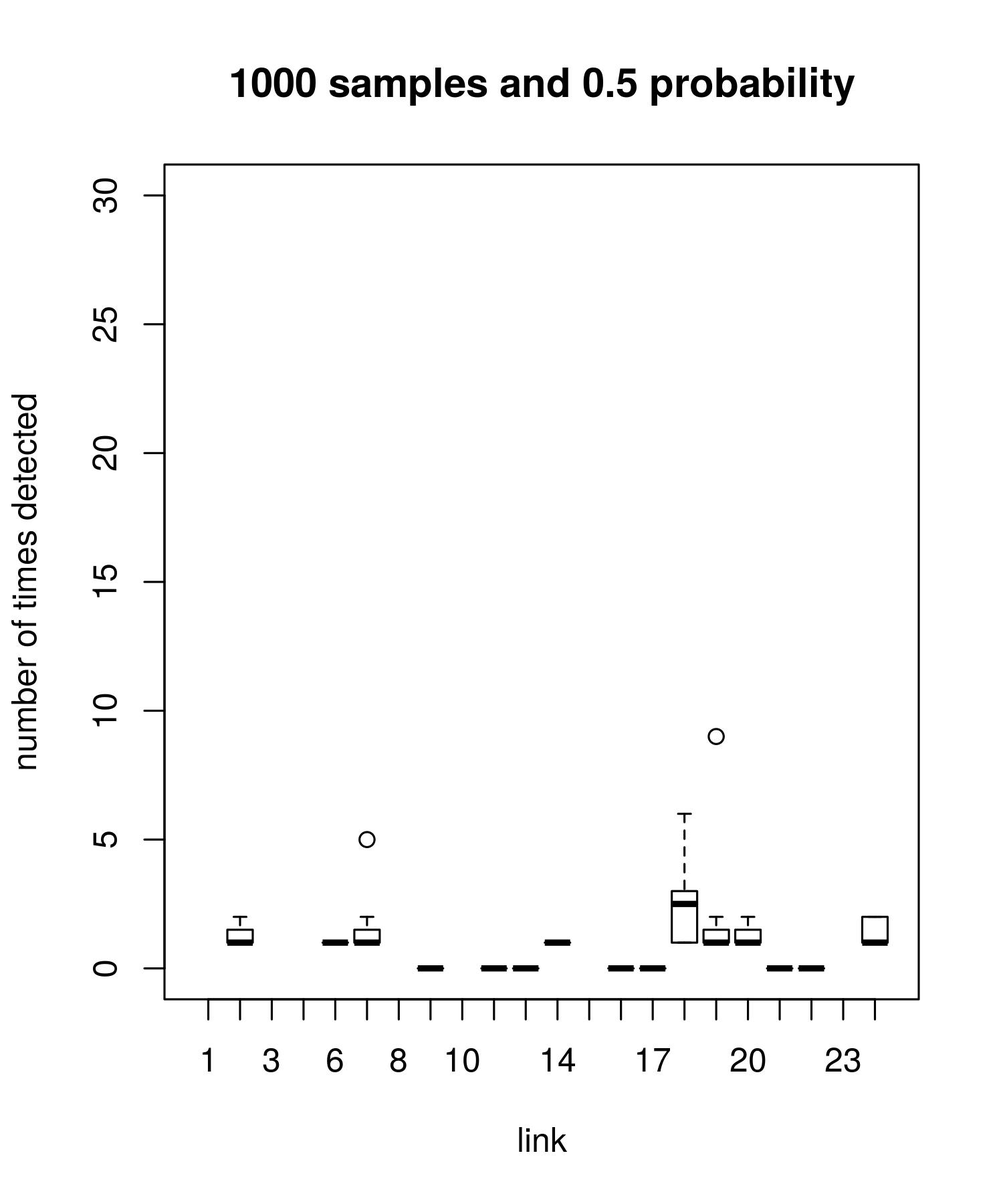
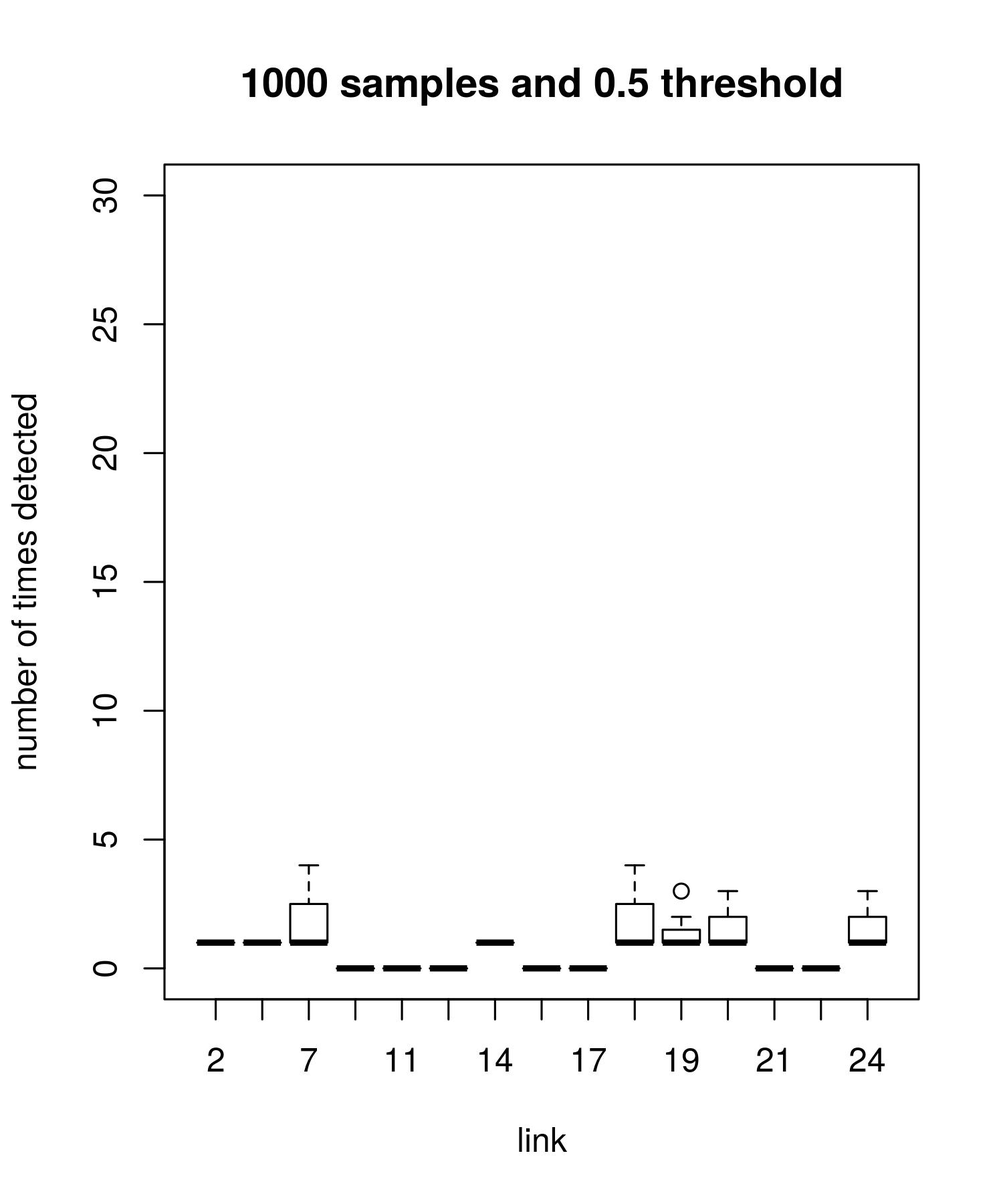
a

diff --git a/417/term_project/417course_project.html b/417/term_project/417course_project.html
@@ -107,32 +107,32 @@
 </ol>
 
 <a name="1"></a><h2>Introduction</h2>
-<p>In an environmnet partially monitored by cameras, an intelligent surveillance system may  benefit itself by knowing how to track targets transiting through the blind regions between two spatially adjacent cameras. Such system may allow continuous tracking of targets and generation of complete activity records. </p>
+<p>In an environment partially monitored by cameras, an intelligent surveillance system may  benefit itself by knowing how to track targets transiting through the blind regions between two spatially adjacent cameras. Such system may allow continuous tracking of targets and generation of complete activity records. </p>
 
-<p>Makis et al at Kingston University have put a considable effort on solving single camera tracking and matching tracks in overlapping camera views. Meanwhile, some methods have been proposed by other researchsers to track single object through multiple camera views. Notably, Javed et al suggest to correspond the individial tracks of a target using feature matching by maximizing the posterior probability of the spatio-temporal and color apparance of the target. <a href="#r2">[2]</a> However, color is not guaranteed to be always reliable to match targets across multiple cameras.</p>
+<p>Makis et al at Kingston University have put a considerable effort on solving single camera tracking and matching tracks in overlapping camera views. Meanwhile, some methods have been proposed by other researchers to track single object through multiple camera views. Notably, Javed et al suggest to correspond the individual tracks of a target using feature matching by maximizing the posterior probability of the spatio-temporal and color appearance of the target. <a href="#r2">[2]</a> However, color is not guaranteed to be always reliable to match targets across multiple cameras.</p>
 
-<p> An alternative approach is to learn and build a model of the environment and of the camera connectivity, enabling the system to predict the bahavior its targets. This allows one camera to "handover" the track to the next camera as the target move across the two, and thus avoids the need of establishing any correspondence. This model can carry spacial (topology) and temporal (time taken for targets to move between views) information of the network.
+<p> An alternative approach is to learn and build a model of the environment and of the camera connectivity, enabling the system to predict the behavior its targets. This allows one camera to "handover" the track to the next camera as the target move across the two, and thus avoids the need of establishing any correspondence. This model can carry spacial (topology) and temporal (time taken for targets to move between views) information of the network.
 </p>
 
 <p>The topology of the camera can be determined by using calibrated cameras, whose transformation function of pixel coordinates into 3D coordinates is already defined. If the coordinate system in which calibration is done is common to all the cameras, a geometric analysis of each camera views would then allows spatial adjacency to be established. However, in a large network of cameras, it would be preferable if the system can calibrate itself automatically. Furthermore, a common coordinate system might not be necessary since establishing spatial adjacency requires simply the knowledge of the cameras position relative to each other.</p> 
 
-<p>This project inverstigates on unsupervised learning method, "network calibration",proposed by Makris et al, that estabilishes links between camera views without any requirement of correspondence of target tracks and pre-calibration. This method trains itself on a dataset of observed target trajectories and infers the topology of the camera network based on statistics. <a href="#r1">[1]</a>
+<p>This project investigates on unsupervised learning method, "network calibration", proposed by Makris et al, that establishes links between camera views without any requirement of correspondence of target tracks and pre-calibration. This method trains itself on a dataset of observed target trajectories and infers the topology of the camera network based on statistics. <a href="#r1">[1]</a> We conducted a series of experiments based on simulations to test the completeness of the method.
 </p>
 <a href='#top'>[top]</a>
 
 <a name="2"></a><h2>Theory</h2>
-<p>Each camera view has a set of zones describing where targets enter or leave. These entry/exit zones can be represented as nodes in a network. Each edge between two nodes denote an transition which is either visibile or invisible to the cameras. Figure 1 shows an exmples of such network with two zones. </p> 
+<p>Each camera view has a set of zones describing where targets enter or leave. These entry/exit zones can be represented as nodes in a network. Each edge between two nodes denote an transition which is either visible or invisible to the cameras. Figure 1 shows an exmples of such network with two zones. </p> 
 
 <figure>
 	<img src="image/graphmodel.png">
 	<figcaption><b>Figure 1</b> The network showing entry zone $i$ and exit zone $j$.</figcaption>
 </figure> 
 
-<p>The transition probability of a target from zone $i$ to zone $j$ is $\alpha_{ij} = \int \alpha_{ij}(\tau) d\tau$ where $\alpha_{ij}(\tau)$ for each $\tau$ is the probability of transiting within a time $\tau$. Any region outside of zone $i$ and $j$ is represented by a virtual node $k$. Targets may move from zone $i$ to somewhere else with probability $\alpha_{ik}$ and enter zone $j$ from somewhere else with rate $\pi_{j}$. The transitions filful
+<p>The transition probability of a target from zone $i$ to zone $j$ is $\alpha_{ij} = \int \alpha_{ij}(\tau) d\tau$ where $\alpha_{ij}(\tau)$ for each $\tau$ is the probability of transiting within a time $\tau$. Any region outside of zone $i$ and $j$ is represented by a virtual node $k$. Targets may move from zone $i$ to somewhere else with probability $\alpha_{ik}$ and enter zone $j$ from somewhere else with rate $\pi_{j}$. The transitions fulfil
 
 \begin{equation*}\sum_{Z} \alpha_{iZ} = 1\end{equation*}
 
-A target disappearing at zone $i$ and reapearing at zone $j$ will kindle two signals to the cameras. These signals are modeled as Bernoulli processes, $N_i$ and $M_j$ respectively, and they are assumed to be indvidually and jointly stationary. That is, at any time $t$, the probability of seeing a target appearig at zone $i$ is 
+A target disappearing at zone $i$ and reapearing at zone $j$ will kindle two signals to the cameras. These signals are modeled as Bernoulli processes, $N_i$ and $M_j$ respectively, and they are assumed to be individually and jointly stationary. That is, at any time $t$, the probability of seeing a target appearing at zone $i$ is 
 
 \begin{equation*}p_n = p(n_i(t) = 1) = E[N_i]\end{equation*}
 
@@ -156,7 +156,7 @@ If $\int$Cov$_{ij}(\tau) d\tau = 0$, then the signals are independent. Links for
 <a href='#top'>[top]</a>
 
 <a name="3"></a><h2>Implementation</h2>
-<p>The entry/exit zones are known before starting Network Calibration. They can be leant using Expectation-Maximization on a dataset of trajectories as did Makris et al for their implementation, which is presented in one of their preious works. <a href="#r3">[3]</a> Let $Z$ be the set of learnt zones. Each signal $N_i$ from some zone $i\in Z$ is modeled as a Guassian distribution with mean $\boldsymbol\mu_i$, covariance $\boldsymbol\Sigma_i$ and a prior probability $p_i = p_n$. Together, the network is represented by a Gaussian Mixture $\theta = \{\boldsymbol\mu_i, \boldsymbol\Sigma_i, p_i | i\in Z\}$. </p>
+<p>The entry/exit zones are known before starting Network Calibration. They can be leant using Expectation-Maximization on a dataset of trajectories as did Makris et al for their implementation, which is presented in one of their preious works. <a href="#r3">[3]</a> Let $Z$ be the set of learnt zones. Each signal $N_i$ from some zone $i\in Z$ is modeled as a Gaussian distribution with mean $\boldsymbol\mu_i$, covariance $\boldsymbol\Sigma_i$ and a prior probability $p_i = p_n$. Together, the network is represented by a Gaussian Mixture $\theta = \{\boldsymbol\mu_i, \boldsymbol\Sigma_i, p_i | i\in Z\}$. </p>
 <p>Further observations of trajectories are done by the cameras to learn the topology. This process is mainly divided into three parts: data classification, parameter estimation, interpretation. </p>
 
 <a name="31"></a><h3>Data Classification</h3>
@@ -171,7 +171,7 @@ where
 	&p(x|i) = \frac{1}{\sqrt{2\pi|\boldsymbol\Sigma_i|}} \exp{\left(-\frac{1}{2}(x - \boldsymbol\mu_i)^\top \boldsymbol\Sigma_i^{-1}(x - \boldsymbol\mu_i)\right)}
 \end{align}
 
-Equation (3) follows from Bayes Rule; $\eta = \sum_{j\in Z} p_j p(x|j)$ is the normalization factor. Equation (4) decribes the probability of having a signal at zone $i$, which is assumed to follow the guassian distribution. The logarithm of the probabilities is used instead and the equations can be simplified into the following.
+Equation (3) follows from Bayes Rule; $\eta = \sum_{j\in Z} p_j p(x|j)$ is the normalization factor. Equation (4) describes the probability of having a signal at zone $i$, which is assumed to follow the Gaussian distribution. The logarithm of the probabilities is used instead and the equations can be simplified into the following.
 
 \begin{equation*} p(i|x,\theta) \propto \log{(p_i p(x|i))} - \frac{1}{2}\log{|\boldsymbol\Sigma_i|} -\frac{1}{2}(x - \boldsymbol\mu_i)^\top \boldsymbol\Sigma_i^{-1}(x - \boldsymbol\mu_i)\end{equation*}
 </p> 
@@ -182,7 +182,7 @@ Equation (3) follows from Bayes Rule; $\eta = \sum_{j\in Z} p_j p(x|j)$ is the n
 
 \begin{equation*}\mbox{Cov}_{ij}(\lfloor\tau\rceil) = R_{ij}(\lfloor\tau\rceil) - \mbox{median}_{\tau}R_{ij}(\tau)\end{equation*}
 
-<p>If the covariance $C_{ij}(\lfloor\tau\rceil)$ has a clear peak at some $\lfloor\tau\rceil$, then $\lfloor\tau\rceil$ represents the most popular transition time period between zone $i$ and $j$, implying that the signals from these two zones are correlated, i.e.: they form a valid link. A threashold defined as 
+<p>If the covariance $C_{ij}(\lfloor\tau\rceil)$ has a clear peak at some $\lfloor\tau\rceil$, then $\lfloor\tau\rceil$ represents the most popular transition time period between zone $i$ and $j$, implying that the signals from these two zones are correlated, i.e.: they form a valid link. A threshold defined as 
 
 \begin{equation} thr = E[R_{ij}(\tau)] - \omega\sqrt{V[R_{ij}(\tau)]}\end{equation}
 
@@ -195,7 +195,7 @@ However, if the most popular transition time is strictly negative, the following
 \begin{equation*}\alpha_{ji}(\tau) = \mbox{Cov}_{ij}(\tau) / p_m(1-p_m)\end{equation*}</p>
 
 <a name="33"></a><h3>Interpretation</h3>
-<p>The topology of the cameras can be inferred by the set of valid links and their transition times. Considering two zones $i$ and $j$, each from a different camera view, if the transition time form $i$ to $j$ is approximately zero, then the two zones are overlapping. If the transition time is strictly positive, then targets can move from $i$ to $j$ through an unseen path. Finally, if the transition time is strictly negative, then targets enter $j$ before they leave $i$, implying that both zones are either patially or completely visible on both cameras.</p>
+<p>The topology of the cameras can be inferred by the set of valid links and their transition times. Considering two zones $i$ and $j$, each from a different camera view, if the transition time form $i$ to $j$ is approximately zero, then the two zones are overlapping. If the transition time is strictly positive, then targets can move from $i$ to $j$ through an unseen path. Finally, if the transition time is strictly negative, then targets enter $j$ before they leave $i$, implying that both zones are either partially or completely visible on both cameras.</p>
 
 <a href='#top'>[top]</a>
 
@@ -205,12 +205,12 @@ However, if the most popular transition time is strictly negative, the following
 <p>We decide to carry an experiment on the completeness of their method. More specifically, we are interested in knowing if Network Calibration can find all the valid links. Theoretically, if there's a transition between two zones, regardless of how small its probability is, running Network Calibration long enough will eventually lead to the discovery of that link. However, as running time is restricted in real world applications, the question of how much data is enough arises. It may be intuitive to think that to find a valid link, the zones of that link need to be detected and signals from these zones must be observed when performing Network Calibration. Yet, as the method is correspondence-free, trajectory information are discarded and thus one observation of a target moving along that link is not enough for the method to detect that link.</p>
 
 <a name="41"></a><h3>Design</h3>
-<p>We construct a compter simulated environment with two cameras. For simplicity, the entry/exit zones, their probability distribution and parameters are fixed, and all targets start from one zone and move to the others in a random walk fashion.</p>
+<p>We construct a computer simulated environment with two cameras. For simplicity, the entry/exit zones, their probability distribution and parameters are fixed, and all targets start from one zone and move to the others in a random walk fashion.</p>
 <figure>
 	<img src="image/exp1.png">
 	<figcaption><b>Figure 2</b> The simulated setting showing the viewfield of the two cameras and their entry/exit zones. </figcaption>
 </figure>
-<p>During the simulation, targets are generated with a random entering time and a position sampled from the dirtibution at zone 1. Then, they move to the next according to the transition probabilities and a speed drawn from a fixed distribution. Tests are done on varying the transition probability $\alpha_{13}$ (and $\alpha_{12}$) and the number of sample for learning the zones and the topology. The other transition probabilities are fixed at 1.0. For simplicity, we assume that the number of sample is the same for both learning systems. We also assume that the zones are know up to their signal distribution. Thus, each simulation first generates data to learn the parameters defining the signal distribution for each zone, then produced the data to infer topology.</p> 
+<p>During the simulation, targets are generated with a random entering time and a position sampled from the distribution at zone 1. Then, they move to the next according to the transition probabilities and a speed drawn from a fixed distribution. Tests are done on varying the transition probability $\alpha_{13}$ (and $\alpha_{12}$) and the number of sample for learning the zones and the topology. The other transition probabilities are fixed at 1.0. For simplicity, we assume that the number of sample is the same for both learning systems. We also assume that the zones are know up to their signal distribution. Thus, each simulation first generates data to learn the parameters defining the signal distribution for each zone, then produced the data to infer topology.</p> 
 <p>Since the generation of signals is not ordered by time, we do not run Network Calibration at the same time as we gather data, unlike how it was originally designed.</p>
 
 <a name="42"></a><h3>Result</h3>
@@ -325,12 +325,12 @@ However, if the most popular transition time is strictly negative, the following
 	<figcaption><b>Figure 3</b> Test result for different sample sizes and transition probabilities. Links with no data point indicates that only signals have been observed from their corresponding zone with a time elapsed of at most 15 seconds. (Note that there is a total of 35 images in the scrollable table).</figcaption>
 </figure>
 
-<p>From the result, our initial hypothesis that links with low transition probability  $\alpha_{13}$ have less chance to be detected appears to be wrong. When the probability of transiting from zone 3 to zone 4 (link #17 on Figure 3) is set to 0.01, the method finds the link at least 50% of the time for sample size above 1000. When set to 0.25, the method achives to find the same transition probability for that link with a specific transition time for all the 30 runs and sample size at least 500.</p>
+<p>From the result, our initial hypothesis that links with low transition probability  $\alpha_{13}$ have less chance to be detected appears to be wrong. When the probability of transiting from zone 3 to zone 4 (link #17 on Figure 3) is set to 0.01, the method finds the link at least 50% of the time for sample size above 1000. When set to 0.25, the method achieves to find the same transition probability for that link with a specific transition time for all the 30 runs and sample size at least 500.</p>
 
 <p>While it is apparent that small sample size affects the ability for the method to detect all the zones, when a link has high transition probability, a sample size too large may overload the system with too much signal data. As observed for link 3-4, when the  $\alpha_{13}$ is raised higher than 0.5, the method inundates the cross-correlation vector for that link, inflating the significance of invalid transition times. As the threshold to filter the covariance is defined according to the mean and variance of the cross-correlation (see equation 5), the peak for that link therefore looses its significance. The similar situation is observed for link 1-2 (link #5 on Figure 3), as each simulated trajectory must start from zone 1. This link is almost never detected regardless of its transition probability.</p>
-<p>As targets much cross link 4-5 (link #8 on Figure 3) after crossing link 3-4 in the simulation, these two links are correlated. In the result, this correlation is also evident. However, redundant links such as 1-3, 1-4, 1-5 and 3-5 should also be coorelated with link 4-5. As discussed previously, any link related with zone 1 is rarely detected due to the crowdedness of the signals at zone 1. On the other hand, 1-4 and 3-5 are entry-entry or exit-exit links. Since the method only detect exit-entry links (which is adequate for detecting connections between camera view), unless some signals are misclassified when performing MAP, detecting these links would be impossible.</p>
+<p>As targets much cross link 4-5 (link #8 on Figure 3) after crossing link 3-4 in the simulation, these two links are correlated. In the result, this correlation is also evident. However, redundant links such as 1-3, 1-4, 1-5 and 3-5 should also be correlated with link 4-5. As discussed previously, any link related with zone 1 is rarely detected due to the crowdedness of the signals at zone 1. On the other hand, 1-4 and 3-5 are entry-entry or exit-exit links. Since the method only detect exit-entry links (which is adequate for detecting connections between camera view), unless some signals are misclassified when performing MAP, detecting these links would be impossible.</p>
 <p>Arguably, the threshold affects how the method perform in detecting links correlated with link 3-4. However, decreasing the threshold would also increase the significance for the invalid links. In many cases, such links are detected more often or found to have more significant covariance peak than some valid links, possibly due to noise and misclassification.</p>
-<p>On the inspection of possible misclassification, we found that the percange accuracy for classifying a signal to the zone that it was generated form varies according to $\alpha_{13}$. When this rate is low, the chance of observing signal from other zones than 1 and 2 is lower, resulting zones 1 and 2 to be more popular. Thus, classification when there are mainly two choices is highly successful. When the variety of zone observed is high, there are more chance of matching a signal with the wrong zone. Figure 4 shows this result.</p>
+<p>On the inspection of possible misclassification, we found that the percent accuracy for classifying a signal to the zone that it was generated form varies according to $\alpha_{13}$. When this rate is low, the chance of observing signal from other zones than 1 and 2 is lower, resulting zones 1 and 2 to be more popular. Thus, classification when there are mainly two choices is highly successful. When the variety of zone observed is high, there are more chance of matching a signal with the wrong zone. Figure 4 shows this result.</p>
 
 <figure>
 	<div class="scollableFigure">
@@ -342,30 +342,39 @@ However, if the most popular transition time is strictly negative, the following
 				<td><img class="flow" src="image/accuracy0.99.jpeg" style="height:100%;"></td>
 		</tr></table>
 	</div><br>
-	<figcaption><b>Figure 4</b> The percentage accuracy of classifying a signal for each transition probability $\alpha_{13}$ and sample size to train the classifier. (Note that there is a total of 5 images in the scrollable table.)</figcaption>
+	<figcaption><b>Figure 4</b> The percentage accuracy of classifying a signal for each transition probability $\alpha_{13}$ and sample size to train the classifier. Result from each graph is the average of 300 runs, each classifying 1000 signal data. (Note that there is a total of 5 images in the scrollable table.)</figcaption>
 </figure>
 
-<p>Linking back to our main result, misclassification may explain why certain invalid links, such as 3-3 and 4-4, are found more often when the $\alpha_{13}$ is high. A possible senario is that some signals from zone 4 is classified to zone 3, and vice-versa. Since there is a valid link between the two zone, the method would find a peak for 3-3 and 4-4. However, this senario is only valid if signals for appearance and dissapearance of target are not distiguished by whether the zones to which they are associated to are entry zone or exit zones. In our implementation, we assumed that the distinction can be made by observing the signal itself. In the original paper, the authors did not clarify on this part of their design. </p>
+<p>Linking back to our main result, misclassification may explain why certain invalid links, such as 3-3 and 4-4, are found more often when the $\alpha_{13}$ is high. A possible scenario is that some signals from zone 4 is classified to zone 3, and vice-versa. Since there is a valid link between the two zone, the method would find a peak for 3-3 and 4-4. However, this scenario is only valid if signals for appearance and disappearance of target are not distinguished by whether the zones to which they are associated to are entry zone or exit zones. In our implementation, we assumed that the distinction can be made by observing the signal itself. In the original paper, the authors did not clarify on this part of their design. </p>
 
 <p>The link 3-5 is occasionally detected when $\alpha_{13}$ is high. In this case, misclassification appears to enable the method to detect valid entry-entry link, which otherwise can never be detected. Entry-entry and exit-exit links that are redundant theory, may perhaps occasionally serve as a substitute to exit-entry links that are not detectable.</p>
+
+<p>Figure 5 shows how varying the variance term in the threshold function affects the output of the method. When threshold is decremented by half of the variance, link 3-4 can be detected at most 50% of the time. Yet, some invalid links, such as 3-3, is amplified, and link 4-5 is still not detected. When the threshold is incremented by half of the variance, link 3-3 is suppressed - as well as every other link.</p>
+
+<figure>
+	<img class="flow" src="image/-0.5_1000_solo.jpeg" style="height:50%;width:50%;">
+	<img class="flow" src="image/0.5_1000_solo.jpeg" style="height:50%;width:50%;">
+	<figcaption><b>Figure 5</b> Number of times a transition probability with a transition time for a link is found when the sample size if 100 and $\alpha_{13}$ is 0.75 and $\omega\in \{-0.5, 0.5\}$. </figcaption>
+</figure>
 
 <a href='#top'>[top]</a>
 
 <a name="5"></a><h2>Conclusions </h2>
-<p>In our experiement, we constructed a scene with 2 cameras with a simple model for the behavior of the targets. Despite that it is a simulation, we were able to investigate on some edge cases where Network Calibration may have difficulty with. Mainly, when signals from a exit-entry zone pair is crowded, the peak in the correlation, if it exists, is burried in a sea of inflated noise.</p>
+<p>In our experiment, we constructed a scene with 2 cameras with a simple model for the behavior of the targets. Despite that it is a simulation, we were able to explore on some edge cases where Network Calibration may have difficulty with. Mainly, when signals from an exit-entry zone pair is crowded, the peak in the correlation, if it exists, is buried in a sea of inflated noise. Decreasing the threshold is not the ideal solution as it may also enable the method to fish up small peaks from invalid links.</p>
 
-<p>Another issue we investigated on is the effect of misclassified signals. Due to the reasonably high accuracy of MAP in our experiement, it may be possible that links detected by misclassification can be filtered out with a higher threshold. Yet, in a scenario where there are much more camera zones, misclassification rate is likely to be higher. In such case, the choice of threshold may not be the best solution. As we have observed, it affects the detectability of popular links, thus cannot be easily increased. Nonetheless, if leaving misclassified signals lurking in the mode, the method may in some cases establish a wrong connection between two close cameras. In a setting where two camera view are seperated by a wall, for example, the Gaussian assumption of the signals implies that the zones are extended infinitely far. A small accuracy error may enable the targets in the model to move through the wall. It may possible to improve the method by confining the zone within the boundary of the camera views. However, in a real experiment, noise from camera sensor may possibly cause signals to be detected beyond the bound.</p>
+<p>On the other side, our investigation on the effect of misclassified signals may suggest to raise up the threshold in some cases. Due to the reasonably high accuracy of MAP in our experiment, it may be possible that links detected by misclassification can be filtered out with a higher threshold. Yet, in a scenario where there are much more camera zones, misclassification rate is likely to grow. In such case, the choice of threshold may not be the best solution; it affects the detectability of popular links, thus cannot be easily increased. Nonetheless, if leaving misclassified signals lurking in the mode, the method may in some cases establish a wrong connection between two close cameras. In a setting where two camera view are separated by a wall, for example, the Gaussian assumption of the signals implies that the zones are extended infinitely far. A small accuracy error may enable the targets in the model to move through the wall. It may possible to improve the method by confining the zone within the boundary of the camera views. However, in a real experiment, noise from camera sensor may possibly cause signals to be detected beyond the bound.</p>
 
-<p>An althernative way to improve the method might be to replace the threshold by a multiple thresholds, or by another function that takes into account not only the mean and variance of the cross-correlation, but also the sample size, the number of zones and the number or the rate of signal data recorded for a candidate link. Another way might be to inspect entry-entry and exit-exit links and connect cameras according to a link-zone ratio, i.e.: if most zone is a camera view are detected to have a link with the zones in another camera view, then the two camera are likely to be connected. This may give a purpose for the redundant links that the authors are concerned for in their paper. However, if the detected links are later on used to predict the behavoir of targets, then a method to remove redundant links may still be required.</p>
+<p>An alternative way to improve the method might be to replace the threshold by a multiple thresholds, or by another function that takes into account not only the mean and variance of the cross-correlation, but also the sample size, the number of zones and the number or the rate of signal data recorded for a candidate link. Then, optimization of the threshold through empirical observation is a possibility for further improvement. As the threshold depends on many parameters that are not stationary and invariant in different conditions, it is unclear whether results from a particular environment and camera setup can be easily generalized.</p>
 
-<p>Overall, the method is simple and easy to implement. Its main benefit is that it is completely unsupervised, correspondance-free, and requires no pre-callibration for the cameras. On the other hand, the trajectory information discarded during the sampling trades-off the sampling size. As in the method by Javed et al, the training time in their experiement took 10 minutes, while Network Callibration, in its creators' experiement, lasted 13 hours.</p> 
+<p>Another way might be to inspect entry-entry and exit-exit links and connect cameras according to a link-zone ratio, i.e.: if most zone is a camera view are detected to have a link with the zones in another camera view, then the two camera are likely to be connected. This may give a purpose for the redundant links that the authors are concerned for in their paper. However, if the detected links are later on used to predict the behavior of targets, then a method to remove redundant links is still be required.</p>
+
+<p>Overall, the method is simple and easy to implement. Its main benefit is that it is completely unsupervised, correspondence-free, and requires no per-calibration for the cameras. On the other hand, the trajectory information discarded during the sampling is a non-negligible trade-off with the sampling size. As in the method by Javed et al, the training time in their experiment took 10 minutes <a href="#r2">[2]</a>, while the data collection of Network Calibration, in its creators' experiment, lasted 13 hours.</p> 
 
 <a name="6"></a><h2>References</h2>
 <p><a name="r1"></a>[1] Makris, D.; Ellis, T.; Black, J. "Bridging the gaps between cameras",  Computer Vision and Pattern Recognition, 2004. CVPR 2004. Proceedings of the 2004 IEEE Computer Society Conference on, On page(s): II-205 - II-210 Vol.2 Volume: 2, 27 June-2 July 2004 </p>
-<p><a name="r2"></a>[2] Omar Javed, Zeeshan Rasheed, Khurram Shafique, Mubarak Shah, "Tracking Across Multiple Cameras With Disjoint Views", IEEE International Conference on Computer Vision, Nice, France, 2003. </p>
+<p><a name="r2"></a>[2] Omar Javed, Zeeshan Rasheed, Khurram Shafique, Mubarak Shah, "Tracking Across Multiple Cameras With Disjoint Views", IEEE International Conference on Computer Vision, Nice, France, 2003. <a href="http://visionnas2.cs.ucf.edu/papers/javed_iccv03.pdf">http://visionnas2.cs.ucf.edu/papers/javed_iccv03.pdf</a></p>
 <p><a name="r3"></a>[3] D. Makris, T.J. Ellis, "Automatic Learning of an Activity-Based Semantic Scene Model", IEEE International Conference on Advanced Video and Signal Based Surveillance, Miami, FL, USA, pp. 183-188. July 2003.  </p>
 
 <a href='#top'>[top]</a>
 </BODY>
 </html>
-

diff --git a/417/term_project/map.py b/417/term_project/map.py
@@ -9,7 +9,7 @@ import numpy as np
 import utils
 
 # constants
-w_const = 0.5
+w_const = -0.5
 T = 15
 
 zones = {}
@@ -261,8 +261,8 @@ if __name__ == "__main__":
 	# resultOneLink = {}
 	ns = [100, 500, 1000, 2000, 3000, 4000, 5000]
 
-	for testprob in ([0.99, 0.01], [0.75, 0.25], [0.50, 0.50], [0.25, 0.75], [0.01, 0.99]):
-	# for testprob in ([0.25, 0.75],):
+	# for testprob in ([0.99, 0.01], [0.75, 0.25], [0.50, 0.50], [0.25, 0.75], [0.01, 0.99]):
+	for testprob in ([0.25, 0.75],):
 		resultAllLink = {}
 		utils.changeProb(testprob)
 		# for n in ns:
@@ -280,7 +280,7 @@ if __name__ == "__main__":
 			#getProbs('data_%d'%n, 'zone_%d'%n, n, 'target_%d'%n, n)
 		# json.dump(result, open("result.json", 'w'))
 		# oneLinkToCSV(resultOneLink,'result.csv')
-		allLinkToCSV(resultAllLink, 'resultAll%f1000.csv'%testprob[1], ns)
+		allLinkToCSV(resultAllLink, 'resultAll%f1000M.csv'%testprob[1], ns)
 		# allLinkToCSV(resultAllLink, 'result.csv', ns)
 
 		# get percent accuracy 
